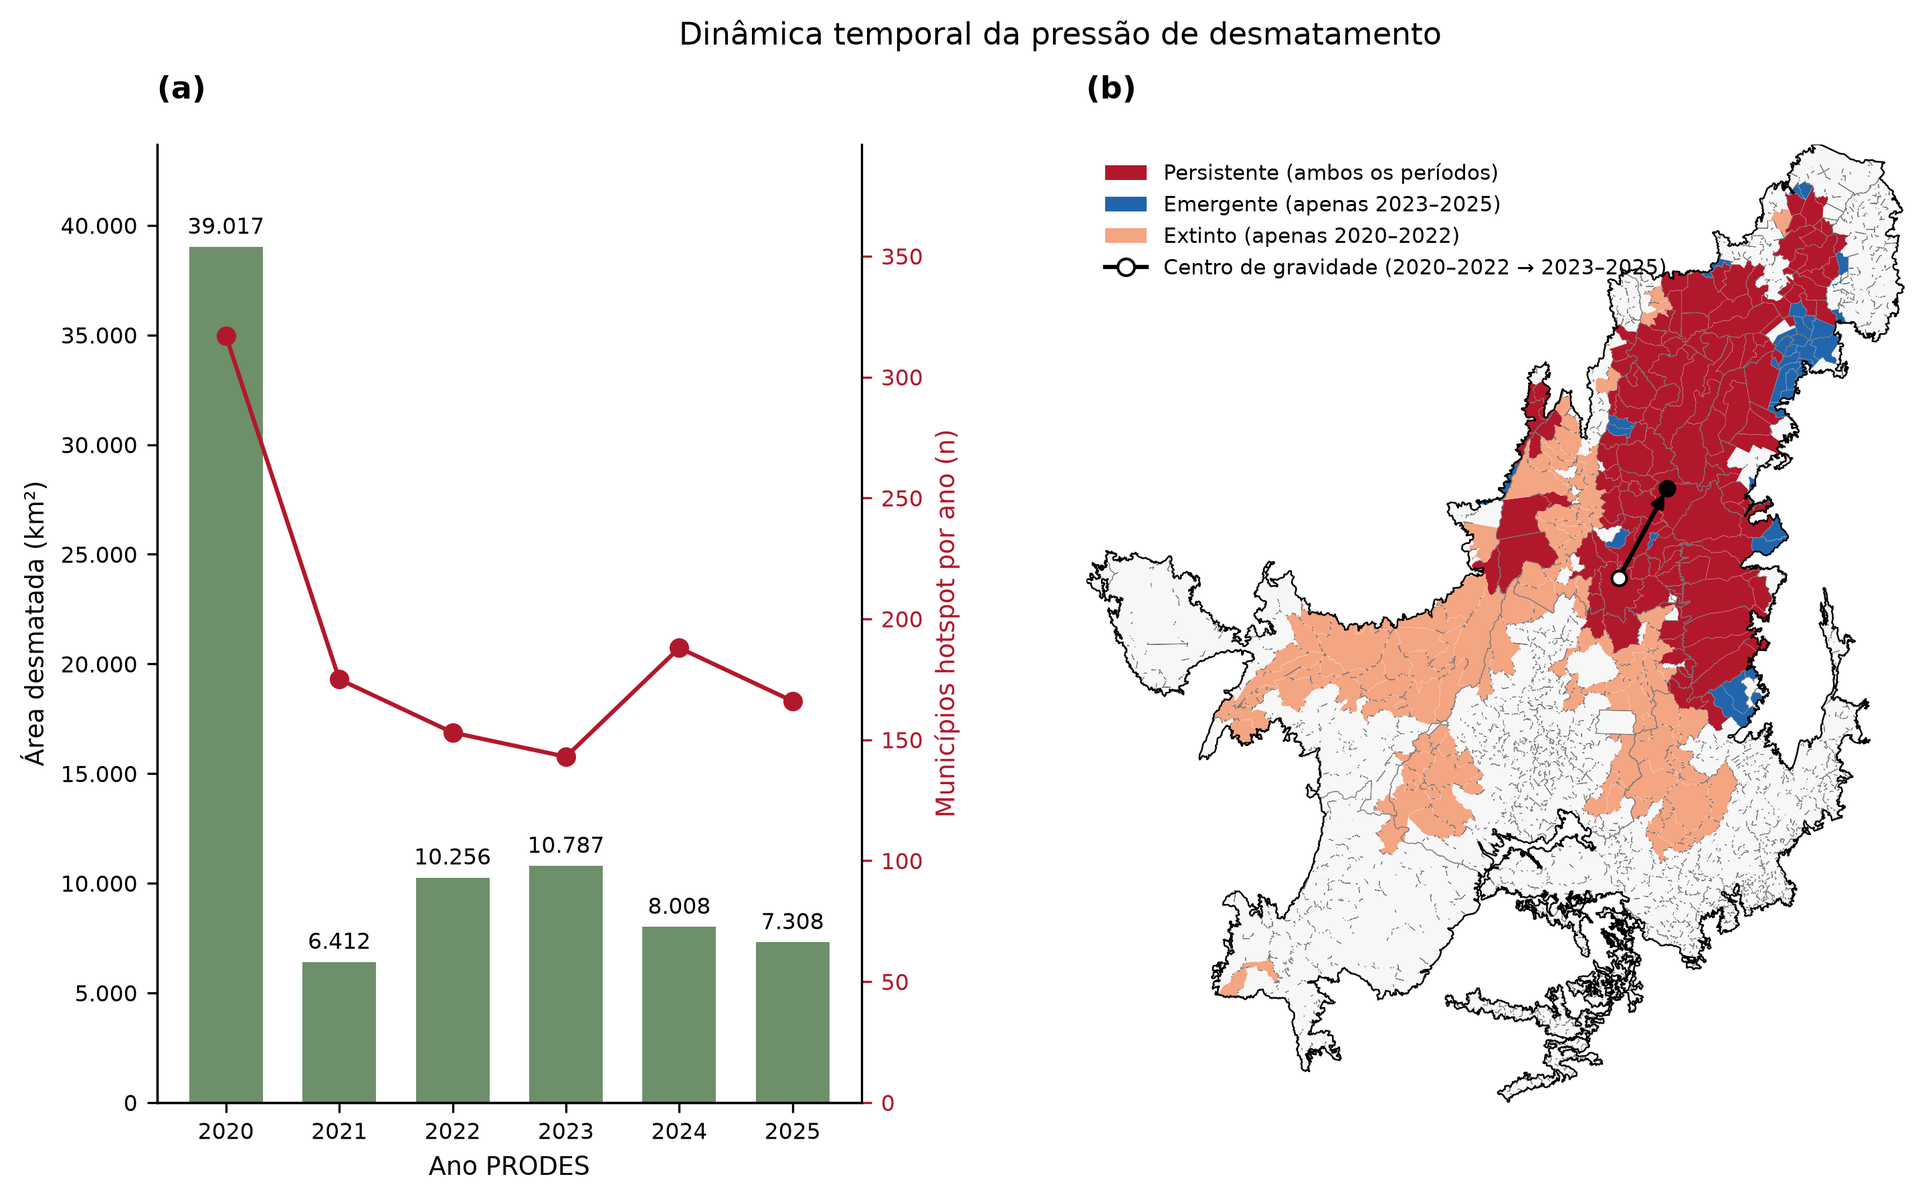
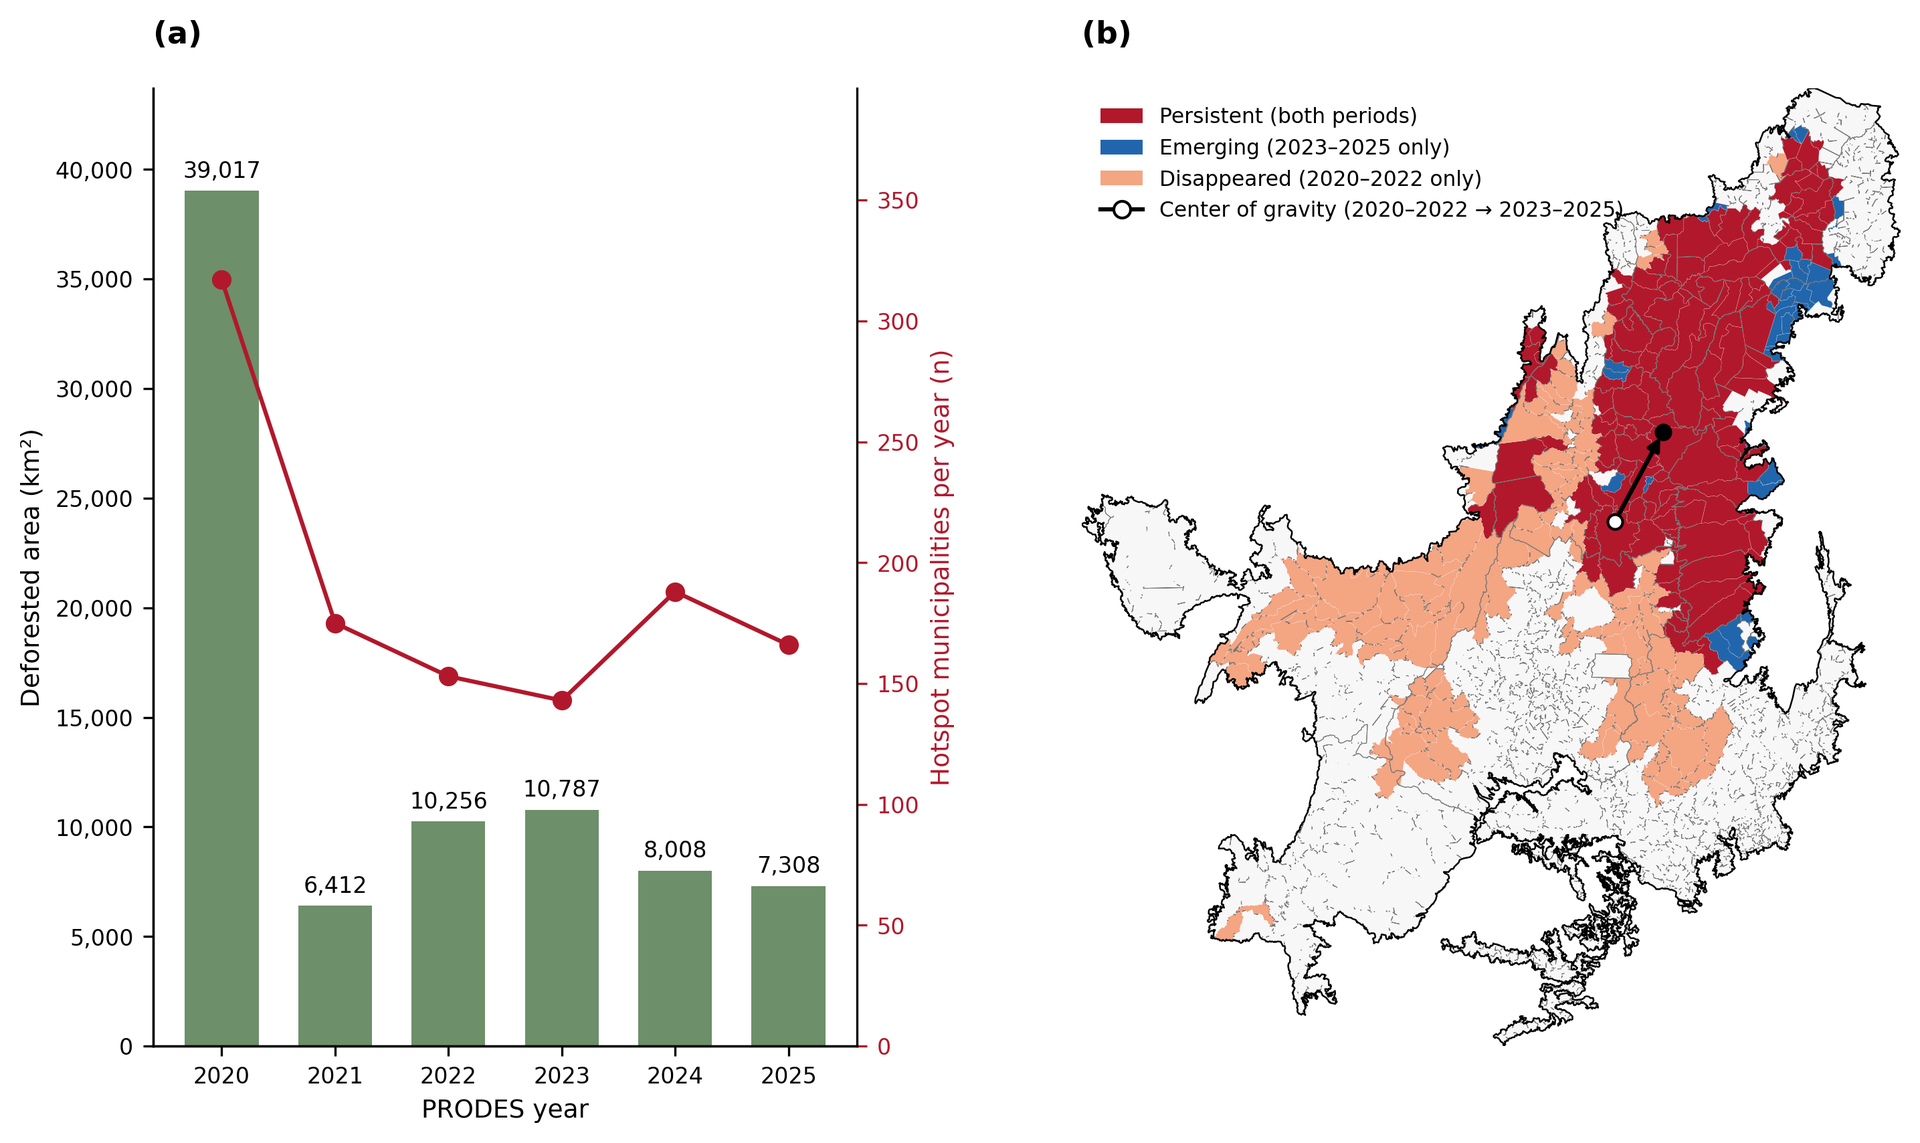
Translate refinement figures to English

diff --git a/src/figures.py b/src/figures.py
@@ -1,5 +1,5 @@
 """
-Figuras finais do artigo (resolução de publicação, rótulos em português).
+Figuras finais do artigo (resolução de publicação, rótulos em inglês).
 
 Uso:
     python -m src.figures
@@ -20,13 +20,20 @@ from matplotlib.path import Path
 from matplotlib.ticker import FuncFormatter
 
 from . import config, io_utils
-from .mapbiomas_event_transition_analysis import CLASS_GROUP_BY_CODE, CLASS_GROUP_NAMES
+from .mapbiomas_event_transition_analysis import CLASS_GROUP_BY_CODE
 
 logger = logging.getLogger(__name__)
 
 DPI = 300
 SIMPLIFY_M = 1000
 GROUP_ORDER = ["vegetacao_natural", "uso_antrópico", "superficie_nao_vegetada", "agua", "sem_dados"]
+GROUP_LABELS = {
+    "vegetacao_natural": "Natural vegetation",
+    "uso_antrópico": "Anthropogenic use",
+    "superficie_nao_vegetada": "Non-vegetated surface",
+    "agua": "Water",
+    "sem_dados": "No data",
+}
 GROUP_COLORS = {
     "vegetacao_natural": "#2E7D32",
     "uso_antrópico": "#E6A100",
@@ -43,14 +50,14 @@ TYPOLOGY_ORDER = [
     "Outras transições",
 ]
 TYPOLOGY_WRAPPED = [
-    "Conversão no\nano da detecção",
-    "Conversão\nposterior",
-    "Vegetação\npersistente",
-    "Já antrópico\nantes do evento",
-    "Regeneração",
-    "Outras\ntransições",
+    "Conversion in\ndetection year",
+    "Post-detection\nconversion",
+    "Persistent\nvegetation",
+    "Already under human use\nbefore event",
+    "Regeneration",
+    "Other\ntransitions",
 ]
-STAGE_LABELS = ["Pré-evento (t−1)", "Ano da detecção (t)", "Pós-evento (t+1)"]
+STAGE_LABELS = ["Pre-event (t−1)", "Detection year (t)", "Post-event (t+1)"]
 HOT_COLOR, CONTROL_COLOR = "#B2182B", "#4D6A7A"
 GI_COLORS = {
     "Hot Spot 99%": "#B2182B",
@@ -65,11 +72,20 @@ GI_LABELS = {
     "Hot Spot 99%": "Hot spot (99%)",
     "Hot Spot 95%": "Hot spot (95%)",
     "Hot Spot 90%": "Hot spot (90%)",
-    "Não significante": "Não significante",
+    "Não significante": "Not significant",
     "Cold Spot 90%": "Cold spot (90%)",
     "Cold Spot 95%": "Cold spot (95%)",
     "Cold Spot 99%": "Cold spot (99%)",
 }
+FIGURE_TITLES = [
+    "Figure 1. Deforestation hotspots in the Cerrado (Getis-Ord Gi*), 2020–2025: (a) deforested area (km²); (b) share of municipal area deforested (%).",
+    "Figure 2. Temporal dynamics of deforestation pressure: (a) annual deforested area and number of hotspot municipalities; (b) hotspot persistence and shift in the deforested-area center of gravity.",
+    "Figure 3. Hotspot sensitivity to neighborhood definitions and multiple-testing correction: (a) area; (b) proportion; (c) Jaccard index relative to Queen contiguity.",
+    "Figure 4. Land-cover group flows before (t−1), during (t), and after (t+1) detection, across the 2020–2024 cohorts.",
+    "Figure 5. Pixel-level trajectory typology: (a) hotspots versus controls; (b) conversion in the detection year by Gi* confidence level. Error bars show 95% confidence intervals from municipality bootstrap.",
+    "Figure 6. Cumulative conversion of the natural area at t−1 by detection cohort: (a) hotspots; (b) controls; (c) conversion rate by state through 2025.",
+    "Figure 7. Post-deforestation conversion and land use in hotspot municipalities: (a) natural-vegetation conversion rate; (b) predominant destination class.",
+]
 
 
 def style():
@@ -93,14 +109,12 @@ def style():
     )
 
 
-def pt_number(value, decimals=0):
-    """Formata números no padrão brasileiro (ponto de milhar e vírgula decimal)."""
-    text = f"{value:,.{decimals}f}"
-    return text.replace(",", "§").replace(".", ",").replace("§", ".")
+def en_number(value, decimals=0):
+    return f"{value:,.{decimals}f}"
 
 
-def pt_formatter(decimals=0):
-    return FuncFormatter(lambda value, _: pt_number(value, decimals))
+def en_formatter(decimals=0):
+    return FuncFormatter(lambda value, _: en_number(value, decimals))
 
 
 def panel_label(ax, letter):
@@ -168,13 +182,12 @@ def fig_gi_maps(frame, states, outline):
     fig, axes = plt.subplots(1, 2, figsize=(12, 6.4))
     order = list(GI_COLORS)
     for ax, column, title, letter in (
-        (axes[0], "gi_bin", "Área desmatada (km²)", "a"),
-        (axes[1], "gi_bin_pct", "Proporção da área municipal desmatada (%)", "b"),
+        (axes[0], "gi_bin", "Deforested area (km²)", "a"),
+        (axes[1], "gi_bin_pct", "Share of municipal area deforested (%)", "b"),
     ):
-        categorical_map(ax, merged, column, GI_COLORS, GI_LABELS, order, title, legend_title="Gi* (confiança)")
+        categorical_map(ax, merged, column, GI_COLORS, GI_LABELS, order, title, legend_title="Gi* confidence")
         finish_map(ax, outline, states, bounds)
         panel_label(ax, letter)
-    fig.suptitle("Hotspots de desmatamento (Getis-Ord Gi*) por município no Cerrado, 2020–2025", y=0.96, fontsize=11)
     fig.tight_layout()
     save(fig, "fig01_hotspots_gi_star.png")
 
@@ -194,9 +207,9 @@ def fig_annual_and_persistence(frame, states, outline):
         "Desaparece (só 2020-2022)": "#F4A582",
     }
     status_labels = {
-        "Persistente": "Persistente (ambos os períodos)",
-        "Emergente (só 2023-2025)": "Emergente (apenas 2023–2025)",
-        "Desaparece (só 2020-2022)": "Extinto (apenas 2020–2022)",
+        "Persistente": "Persistent (both periods)",
+        "Emergente (só 2023-2025)": "Emerging (2023–2025 only)",
+        "Desaparece (só 2020-2022)": "Disappeared (2020–2022 only)",
     }
     merged = frame.merge(stability[["CD_MUN", "status_area"]], on="CD_MUN", how="left")
 
@@ -205,15 +218,15 @@ def fig_annual_and_persistence(frame, states, outline):
     ax0 = fig.add_subplot(grid[0])
     ax0.bar(by_year.index.astype(str), by_year.to_numpy(), color="#6D8F6A", width=0.65)
     for index, value in enumerate(by_year.to_numpy()):
-        ax0.text(index, value + 600, pt_number(value), ha="center", fontsize=8)
-    ax0.set_ylabel("Área desmatada (km²)")
-    ax0.yaxis.set_major_formatter(pt_formatter())
-    ax0.set_xlabel("Ano PRODES")
+        ax0.text(index, value + 600, en_number(value), ha="center", fontsize=8)
+    ax0.set_ylabel("Deforested area (km²)")
+    ax0.yaxis.set_major_formatter(en_formatter())
+    ax0.set_xlabel("PRODES year")
     ax0.set_ylim(0, by_year.max() * 1.12)
     twin = ax0.twinx()
     twin.spines["right"].set_visible(True)
     twin.plot(annual_hot["periodo"].astype(str), annual_hot["n_hotspots"], color=HOT_COLOR, marker="o", linewidth=1.5)
-    twin.set_ylabel("Municípios hotspot por ano (n)", color=HOT_COLOR)
+    twin.set_ylabel("Hotspot municipalities per year (n)", color=HOT_COLOR)
     twin.tick_params(axis="y", colors=HOT_COLOR)
     twin.set_ylim(0, annual_hot["n_hotspots"].max() * 1.25)
     panel_label(ax0, "a")
@@ -229,27 +242,26 @@ def fig_annual_and_persistence(frame, states, outline):
     ax1.scatter([points.iloc[0].x], [points.iloc[0].y], s=28, color="white", edgecolor="black", zorder=6)
     ax1.scatter([points.iloc[1].x], [points.iloc[1].y], s=28, color="black", zorder=6)
     handles = [Patch(facecolor=status_colors[s], label=status_labels[s]) for s in status_colors]
-    handles.append(Line2D([0], [0], color="black", marker="o", mfc="white", label="Centro de gravidade (2020–2022 → 2023–2025)"))
+    handles.append(Line2D([0], [0], color="black", marker="o", mfc="white", label="Center of gravity (2020–2022 → 2023–2025)"))
     ax1.legend(handles=handles, loc="upper left", frameon=False, fontsize=7.5)
     panel_label(ax1, "b")
-    fig.suptitle("Dinâmica temporal da pressão de desmatamento", y=0.98, fontsize=11)
     save(fig, "fig02_dinamica_temporal.png")
 
 
 def fig_robustness():
     table = pd.read_csv(config.REFINED_DIR / "robustez_gi_vizinhanca.csv")
     names = list(dict.fromkeys(table["vizinhanca"]))
-    short = ["Queen\n(base)", "Queen\n2ª ordem", "8 vizinhos\nmais próximos", "Banda\n150 km"]
+    short = ["Queen\n(base)", "Queen\n2nd order", "8 nearest\nneighbors", "150 km\ndistance band"]
     fig, axes = plt.subplots(1, 3, figsize=(13, 4.4), gridspec_kw={"width_ratios": [1.25, 1.25, 0.9]})
     positions = np.arange(len(names))
     width = 0.38
     for ax, variable, title, letter in (
-        (axes[0], "area", "Área desmatada (km²)", "a"),
-        (axes[1], "pct", "Proporção da área municipal (%)", "b"),
+        (axes[0], "area", "Deforested area (km²)", "a"),
+        (axes[1], "pct", "Share of municipal area (%)", "b"),
     ):
         part = table[table["variavel"] == variable].set_index("vizinhanca").loc[names]
-        ax.bar(positions - width / 2, part["n_hotspots"], width, color=HOT_COLOR, label="Pseudo p-valor (permutação)")
-        ax.bar(positions + width / 2, part["n_hotspots_fdr"], width, color="#F4A582", label="Após correção FDR (q = 0,05)")
+        ax.bar(positions - width / 2, part["n_hotspots"], width, color=HOT_COLOR, label="Permutation pseudo-p value")
+        ax.bar(positions + width / 2, part["n_hotspots_fdr"], width, color="#F4A582", label="After FDR correction (q = 0.05)")
         for x, (a, b) in enumerate(zip(part["n_hotspots"], part["n_hotspots_fdr"])):
             ax.text(x - width / 2, a + 6, str(a), ha="center", fontsize=7.5)
             ax.text(x + width / 2, b + 6, str(b), ha="center", fontsize=7.5)
@@ -258,7 +270,7 @@ def fig_robustness():
         ax.set_title(title, fontsize=9.5)
         ax.set_ylim(0, 560)
         panel_label(ax, letter)
-    axes[0].set_ylabel("Municípios classificados como hot spot (n)")
+    axes[0].set_ylabel("Municipalities classified as hot spots (n)")
     axes[0].legend(frameon=False, loc="upper left")
     jaccard = (
         table[table["vizinhanca"] != names[0]]
@@ -266,17 +278,16 @@ def fig_robustness():
         .loc[names[1:]]
     )
     ax = axes[2]
-    ax.barh(np.arange(3) - 0.2, jaccard["area"], 0.38, color=CONTROL_COLOR, label="Área")
-    ax.barh(np.arange(3) + 0.2, jaccard["pct"], 0.38, color="#9DB4C0", label="Proporção")
+    ax.barh(np.arange(3) - 0.2, jaccard["area"], 0.38, color=CONTROL_COLOR, label="Area")
+    ax.barh(np.arange(3) + 0.2, jaccard["pct"], 0.38, color="#9DB4C0", label="Proportion")
     ax.set_yticks(np.arange(3))
     ax.set_yticklabels(short[1:])
     ax.set_xlim(0, 1)
-    ax.set_xlabel("Índice de Jaccard em relação ao Queen")
-    ax.xaxis.set_major_formatter(pt_formatter(1))
+    ax.set_xlabel("Jaccard index relative to Queen")
+    ax.xaxis.set_major_formatter(en_formatter(1))
     ax.legend(frameon=False, loc="lower right")
     ax.invert_yaxis()
     panel_label(ax, "c")
-    fig.suptitle("Sensibilidade dos hotspots à definição de vizinhança e à correção para testes múltiplos", y=1.02, fontsize=11)
     fig.tight_layout()
     save(fig, "fig03_robustez_gi_star.png")
 
@@ -312,7 +323,7 @@ def draw_sankey(ax, first, second, title):
                                        color=GROUP_COLORS[GROUP_ORDER[group_index]], zorder=3))
             if value / total > 0.035:
                 ax.text(x_positions[stage] + bar_width / 2 + 0.03, cursor + value / 2,
-                        pt_number(100 * value / total, 1) + "%", va="center", ha="left", fontsize=8)
+                        en_number(100 * value / total, 1) + "%", va="center", ha="left", fontsize=8)
             cursor += value + gap
         tops.append(stage_top)
 
@@ -348,15 +359,14 @@ def draw_sankey(ax, first, second, title):
 def fig_sankey(trajectories):
     fig, axes = plt.subplots(1, 2, figsize=(13, 5.6))
     for ax, group, title, letter in (
-        (axes[0], "Hotspot", "Municípios hotspot", "a"),
-        (axes[1], "Controle", "Municípios de controle", "b"),
+        (axes[0], "Hotspot", "Hot spot municipalities", "a"),
+        (axes[1], "Controle", "Control municipalities", "b"),
     ):
         part = trajectories[(trajectories["year"] <= 2024) & (trajectories["grupo"] == group)]
         draw_sankey(ax, *sankey_flows(part), title)
         panel_label(ax, letter)
-    handles = [Patch(facecolor=GROUP_COLORS[g], label=CLASS_GROUP_NAMES[g]) for g in GROUP_ORDER[:4]]
+    handles = [Patch(facecolor=GROUP_COLORS[g], label=GROUP_LABELS[g]) for g in GROUP_ORDER[:4]]
     fig.legend(handles=handles, loc="lower center", ncol=4, frameon=False, bbox_to_anchor=(0.5, -0.02))
-    fig.suptitle("Fluxos de cobertura dos pixels desmatados (coortes PRODES 2020–2024; área estimada)", y=1.0, fontsize=11)
     fig.tight_layout()
     save(fig, "fig04_fluxos_cobertura.png")
 
@@ -364,7 +374,7 @@ def fig_sankey(trajectories):
 def fig_typology():
     table = pd.read_csv(config.REFINED_DIR / "tipologia_por_grupo.csv")
     levels = pd.read_csv(config.REFINED_DIR / "tipologia_por_nivel_confianca.csv")
-    levels = levels[levels["categoria"] == TYPOLOGY_ORDER[0]].set_index("hot_nivel")
+    levels = levels[levels["categoria"] == "Conversão no ano da detecção"].set_index("hot_nivel")
     fig, axes = plt.subplots(1, 2, figsize=(12.5, 4.6), gridspec_kw={"width_ratios": [1.8, 1]})
     ax = axes[0]
     positions = np.arange(len(TYPOLOGY_ORDER))
@@ -373,32 +383,31 @@ def fig_typology():
         part = table[table["grupo"] == group].set_index("categoria").reindex(TYPOLOGY_ORDER)
         error = [part["participacao_pct"] - part["ic95_inf"], part["ic95_sup"] - part["participacao_pct"]]
         ax.bar(positions + offset, part["participacao_pct"], width, yerr=error, capsize=2.5,
-               color=color, label=group, error_kw=dict(lw=0.9))
+               color=color, label="Hot spot" if group == "Hotspot" else "Control", error_kw=dict(lw=0.9))
         for x, value, high in zip(positions + offset, part["participacao_pct"], part["ic95_sup"]):
-            ax.text(x, high + 1.2, pt_number(value, 1), ha="center", fontsize=7)
+            ax.text(x, high + 1.2, en_number(value, 1), ha="center", fontsize=7)
     ax.set_xticks(positions)
     ax.set_xticklabels(TYPOLOGY_WRAPPED, fontsize=8)
-    ax.set_ylabel("Participação na área desmatada (%)")
+    ax.set_ylabel("Share of deforested area (%)")
     ax.set_ylim(0, 62)
-    ax.yaxis.set_major_formatter(pt_formatter())
-    ax.legend(frameon=False, title="Grupo de municípios")
+    ax.yaxis.set_major_formatter(en_formatter())
+    ax.legend(frameon=False, title="Municipality group")
     panel_label(ax, "a")
 
     ax = axes[1]
-    labels = ["Controle", "Hotspot\n90%", "Hotspot\n95%", "Hotspot\n99%"]
+    labels = ["Control", "Hot spot\n90%", "Hot spot\n95%", "Hot spot\n99%"]
     colors = [CONTROL_COLOR, "#FDBB84", "#EF6548", "#B2182B"]
     levels_used = levels.loc[[0.0, 90.0, 95.0, 99.0]]
     values = levels_used["participacao_pct"].to_numpy()
     low, high = levels_used["ic95_inf"].to_numpy(), levels_used["ic95_sup"].to_numpy()
     ax.bar(np.arange(4), values, 0.6, color=colors, yerr=[values - low, high - values], capsize=3, error_kw=dict(lw=0.9))
     for x, value in enumerate(values):
-        ax.text(x, high[x] + 1.2, pt_number(value, 1), ha="center", fontsize=8)
+        ax.text(x, high[x] + 1.2, en_number(value, 1), ha="center", fontsize=8)
     ax.set_xticks(np.arange(4))
     ax.set_xticklabels(labels)
-    ax.set_ylabel("Conversão no ano da detecção (%)")
+    ax.set_ylabel("Conversion in detection year (%)")
     ax.set_ylim(0, 62)
     panel_label(ax, "b")
-    fig.suptitle("Tipologia de trajetória por pixel: hotspots × controle (IC 95% por bootstrap de municípios)", y=1.03, fontsize=11)
     fig.tight_layout()
     save(fig, "fig05_tipologia_hotspot_controle.png")
 
@@ -420,28 +429,28 @@ def fig_conversion():
                 continue
             ax.plot(part["defasagem_anos"], part["taxa_conversao_acumulada_pct"], marker="o", ms=3.5,
                     color=cmap(k / max(len(years) - 1, 1)), label=str(year))
-        ax.set_title(f"Municípios {'hotspot' if group == 'Hotspot' else 'de controle'}", fontsize=9.5)
-        ax.set_xlabel("Anos após o ano de detecção")
+        ax.set_title(f"{'Hot spot' if group == 'Hotspot' else 'Control'} municipalities", fontsize=9.5)
+        ax.set_xlabel("Years after detection")
         ax.set_xticks(range(6))
         ax.grid(alpha=0.3, linewidth=0.5)
         panel_label(ax, letter)
-    axes[0].set_ylabel("Conversão acumulada da área natural em t−1 (%)")
-    axes[1].legend(title="Coorte PRODES", frameon=False, fontsize=7.5, loc="center right")
+    axes[0].set_ylabel("Cumulative conversion of natural area at t−1 (%)")
+    axes[1].legend(title="PRODES cohort", frameon=False, fontsize=7.5, loc="center right")
     ax = fig.add_subplot(grid[2])
     order = states[states["grupo"] == "Hotspot"].sort_values("area_convertida_km2", ascending=False)["SIGLA_UF"].tolist()
     height = 0.38
     ypos = np.arange(len(order))
     for offset, group, color in ((-height / 2, "Hotspot", HOT_COLOR), (height / 2, "Controle", CONTROL_COLOR)):
         part = states[states["grupo"] == group].set_index("SIGLA_UF").reindex(order)
-        ax.barh(ypos + offset, part["taxa_conversao_pct"], height, color=color, label=group)
+        label = "Hot spot" if group == "Hotspot" else "Control"
+        ax.barh(ypos + offset, part["taxa_conversao_pct"], height, color=color, label=label)
     ax.set_yticks(ypos)
     ax.set_yticklabels(order)
     ax.invert_yaxis()
     ax.set_xlim(0, 100)
-    ax.set_xlabel("Taxa de conversão até 2025 (%)")
+    ax.set_xlabel("Conversion rate through 2025 (%)")
     ax.legend(frameon=False, loc="lower right")
     panel_label(ax, "c")
-    fig.suptitle("Persistência e velocidade da conversão da vegetação natural", y=1.03, fontsize=11)
     save(fig, "fig06_conversao_acumulada.png")
 
 
@@ -455,17 +464,20 @@ def fig_conversion_maps(frame, states, outline):
     ax = axes[0]
     frame.plot(ax=ax, color="#F7F7F7", edgecolor="none")
     hot.plot(ax=ax, column="taxa_conversao_pct", cmap="YlOrRd", vmin=0, vmax=100, edgecolor="white",
-             linewidth=0.05, legend=True, legend_kwds={"shrink": 0.55, "label": "Taxa de conversão (%)"})
+             linewidth=0.05, legend=True, legend_kwds={"shrink": 0.55, "label": "Conversion rate (%)"})
     finish_map(ax, outline, states, bounds)
-    ax.set_title("Taxa de conversão da vegetação natural (municípios hotspot)", fontsize=9.5)
+    ax.set_title("Natural-vegetation conversion rate (hot spot municipalities)", fontsize=9.5)
     panel_label(ax, "a")
     ax = axes[1]
     colors = {"Mosaico de Agricultura e Pastagem": "#8C6BB1", "Pastagem": "#41AB5D"}
-    categorical_map(ax, hot, "destino_predominante", colors, {k: k for k in colors}, list(colors),
-                    "Classe de destino predominante", legend_title="Uso após a conversão")
+    destination_labels = {
+        "Mosaico de Agricultura e Pastagem": "Agriculture and pasture mosaic",
+        "Pastagem": "Pasture",
+    }
+    categorical_map(ax, hot, "destino_predominante", colors, destination_labels, list(colors),
+                    "Predominant destination class", legend_title="Post-conversion land use")
     finish_map(ax, outline, states, bounds)
     panel_label(ax, "b")
-    fig.suptitle("Conversão e uso da terra pós-desmatamento nos municípios hotspot", y=0.96, fontsize=11)
     fig.tight_layout()
     save(fig, "fig07_conversao_destino.png")
 
@@ -474,8 +486,7 @@ def main():
     logging.basicConfig(level=logging.INFO, format="%(asctime)s [%(levelname)s] %(message)s")
     style()
     config.FIGURES_DIR.mkdir(parents=True, exist_ok=True)
-    for old in config.FIGURES_DIR.glob("*.png"):
-        old.unlink()
+    (config.FIGURES_DIR / "titulos_figuras.txt").write_text("\n".join(FIGURE_TITLES) + "\n", encoding="utf-8")
     trajectories = pd.read_parquet(config.REFINED_DIR / "_trajetorias_pixel.parquet")
     frame, states, outline = load_map_layers()
     frame["CD_MUN"] = frame["CD_MUN"].astype("string")

diff --git a/docs/metodologia.md b/docs/metodologia.md
@@ -153,7 +153,7 @@ python -m src.pixel_extraction     # trajetórias por pixel
 python -m src.pixel_analysis       # tipologias e inferência
 python -m src.gi_robustness        # robustez do Gi*
 python -m src.visual_validation    # validação visual
-python -m src.figures              # figuras
+python -m src.figures              # figuras em inglês; títulos em output/refinamento/figuras/titulos_figuras.txt
 pytest tests -q                    # testes (8)
 ```
 
